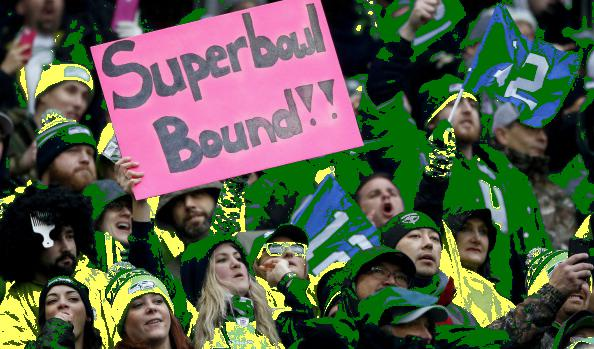
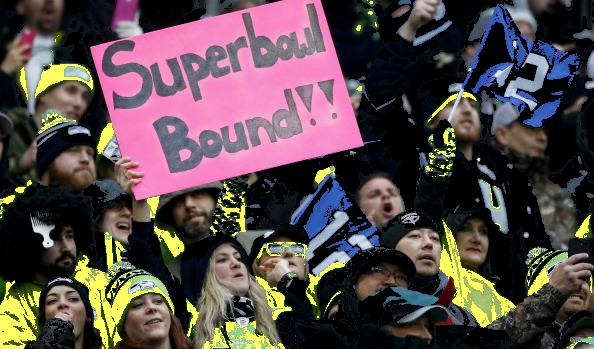
last prep for class, includes lab_Wade

diff --git a/templates/lab_Wade/index.html b/templates/lab_Wade/index.html
@@ -1,0 +1,28 @@
+
+{% extends "base.html" %}
+{% block content %}
+
+<div class="container">
+    
+    <script src="https://code.jquery.com/jquery-2.1.3.js"></script>
+    <script src="/static/underscore.js"></script>
+    <script src="/static/lab_Wade/vis.js"></script>
+    <script>
+        main();
+    </script>
+</div>
+
+      <div class="jumbotron">
+        <div class="container">
+          <h1>Lab1: Wade's Solution</h1>
+          <p>The images below represent the "before" and "after" views of the images we are modifying for our first exercise.</p>
+        </div>
+       </div>
+
+       <div class="container">
+    <div class="container" id="imageData"></div>
+         <!-- Example row of columns -->
+         <hr>
+         </div>
+
+{% endblock %}

diff --git a/static/lab_Wade/vis.js b/static/lab_Wade/vis.js
@@ -1,12 +1,12 @@
 
 function main() {
-    $.getJSON("/static/demo_NFL/data.json",
+    $.getJSON("/static/lab_Wade/data.json",
         function (jsonData) {
             var s = "";
             for (var i = 0; i < jsonData.length; i++) {
                 var imageData = jsonData[i];
                 s += '<div class="row">';
-                s += '  <div class="col-sm-6">';
+                s += '  <div class="col-md-6">';
                 s += '    <img src="' + imageData.orig + '" class="img-responsive"/>';
                 s += '  </div>';
                 s += '  <div class="col-md-6">';

diff --git a/templates/base.html b/templates/base.html
@@ -46,6 +46,7 @@
           <a href="#" class="dropdown-toggle" data-toggle="dropdown" role="button" aria-expanded="false">Labs<span class="caret"></span></a>
           <ul class="dropdown-menu" role="menu">
               <li><a href="/lab/ImageSingle">Image Single</a></li>
+              <li><a href="/lab/Wade">Wade</a></li>
           </ul>
         </li>
         <li class="dropdown">

diff --git a/py/lab_Wade/compute.py b/py/lab_Wade/compute.py
@@ -1,0 +1,166 @@
+
+#grab the python imaging library
+from PIL import Image, ImageFilter
+import json
+
+#http://stackoverflow.com/questions/24152553/hsv-to-rgb-and-back-without-floating-point-math-in-python
+def RGB_2_HSV(RGB):
+    ''' Converts an integer RGB tuple (value range from 0 to 255) to an HSV tuple '''
+
+    # Unpack the tuple for readability
+    R, G, B = RGB
+
+    # Compute the H value by finding the maximum of the RGB values
+    RGB_Max = max(RGB)
+    RGB_Min = min(RGB)
+
+    # Compute the value
+    V = RGB_Max;
+    if V == 0:
+        H = S = 0
+        return (H,S,V)
+
+
+    # Compute the saturation value
+    S = 255 * (RGB_Max - RGB_Min) // V
+
+    if S == 0:
+        H = 0
+        return (H, S, V)
+
+    # Compute the Hue
+    if RGB_Max == R:
+        H = 0 + 43*(G - B)//(RGB_Max - RGB_Min)
+    elif RGB_Max == G:
+        H = 85 + 43*(B - R)//(RGB_Max - RGB_Min)
+    else: # RGB_MAX == B
+        H = 171 + 43*(R - G)//(RGB_Max - RGB_Min)
+
+    return (H, S, V)
+
+#http://stackoverflow.com/questions/24152553/hsv-to-rgb-and-back-without-floating-point-math-in-python
+def HSV_2_RGB(HSV):
+    ''' Converts an integer HSV tuple (value range from 0 to 255) to an RGB tuple '''
+
+    # Unpack the HSV tuple for readability
+    H, S, V = HSV
+
+    # Check if the color is Grayscale
+    if S == 0:
+        R = V
+        G = V
+        B = V
+        return (R, G, B)
+
+    # Make hue 0-5
+    region = H // 43;
+
+    # Find remainder part, make it from 0-255
+    remainder = (H - (region * 43)) * 6; 
+
+    # Calculate temp vars, doing integer multiplication
+    P = (V * (255 - S)) >> 8;
+    Q = (V * (255 - ((S * remainder) >> 8))) >> 8;
+    T = (V * (255 - ((S * (255 - remainder)) >> 8))) >> 8;
+
+
+    # Assign temp vars based on color cone region
+    if region == 0:
+        R = V
+        G = T
+        B = P
+
+    elif region == 1:
+        R = Q; 
+        G = V; 
+        B = P;
+
+    elif region == 2:
+        R = P; 
+        G = V; 
+        B = T;
+
+    elif region == 3:
+        R = P; 
+        G = Q; 
+        B = V;
+
+    elif region == 4:
+        R = T; 
+        G = P; 
+        B = V;
+
+    else: 
+        R = V; 
+        G = P; 
+        B = Q;
+
+
+    return (R, G, B)
+
+
+def do_compute():  #required for web app
+
+    #import os
+    #set up file names to use for I/O
+
+    orig_name = "static/lab_Wade/packers.jpg"
+    new_name = "static/lab_Wade/packersNEW.jpg"
+
+    # bring data into memory
+    orig = Image.open(orig_name)
+    pixels = orig.load()
+    width,height = orig.size
+
+    # make changes to data, creating new image
+    for i in range(200):
+        pixels[i, i] = (255,0,0)
+
+    for x in range(width):
+        for y in range(height):
+        	r, g, b = pixels[x, y]
+        	
+        	h, s, v = RGB_2_HSV(pixels[x, y])
+        	
+
+        	# Orange: h = 26  / 360   ==>  18 / 255
+        	# Blue:   h = 211 / 360   ==> 150 / 255
+        	
+        	#  <---- 18 ----- 84 ----- 150 ----- 212 ----->
+        	#      orange     |        blue       |     orange
+        	        	
+        	if h >= 84 and h <= 212:
+        		h = 150
+        	else:
+        		h = 18
+        	
+        	# Result 2:
+        	# - Change sat. values for more color
+        	#if s < 128:
+        	#	s = s + 128
+        	#else:
+        	#	s = 255
+        	
+        	# Result 3:
+        	# - Change value for HDR-like rendeirng:
+        	#if v < 128:
+        	#	#v = (v / 128) * 100
+        	#	v = 0
+        	#else:
+        	#	v = int(((v - 128) / float(128)) * 200) + 55
+        	       		
+        	r, g, b = HSV_2_RGB( (h, s, v) )
+        	
+        	        		
+        	pixels[x, y] = (r,g,b)
+            
+            
+    # write data to file
+    orig.save(new_name)
+
+    # build list of dictionary(s) containing orig and new
+    outData = [{'orig': '/'+ orig_name, 'new': '/'+ new_name }]
+
+    with open('static/lab_Wade/data.json','w') as outfile:
+        json.dump(outData, outfile, indent=4, ensure_ascii=False)
+

diff --git a/py/demo_NFL/compute.py b/py/demo_NFL/compute.py
@@ -11,6 +11,12 @@ def isNavy(p):
 def isBrightGreen(p):
     return (pixelDist(p,(50,200,50)) < 12000)
 
+def makeGold((r,g,b)):
+    return (255,255,100)
+
+def makeGreen((r,g,b)):
+    return (0,120,0)
+
 def packerfy(im):
     pack = im.copy()
     w,h = pack.size
@@ -19,9 +25,9 @@ def packerfy(im):
     for x in range(w):
         for y in range(h):
             if isNavy(pixels[x,y]):
-                pixels[x,y] = (0,110,0) #green
+                pixels[x,y] = makeGreen(pixels[x,y])
             elif isBrightGreen(pixels[x,y]):
-                pixels[x,y] = (255,255,100) #yellow
+                pixels[x,y] = makeGold(pixels[x,y])
 
     return pack
 
@@ -29,7 +35,7 @@ def do_compute():  #required for web app
 
     #set up file names to use for I/O
     orig_name = "static/demo_NFL/ssfans.jpg"
-    new_name = "static/demo_NFL/packerfy.jpg"
+    new_name = "static/demo_NFL/packerfy2.jpg"
 
     # bring data into memory
     orig = Image.open(orig_name)
@@ -40,7 +46,7 @@ def do_compute():  #required for web app
     # build list of dictionary(s) containing orig and new
     outData = [{'orig': '/'+ orig_name, 'new': '/'+ new_name }]
 
-    with open('static/demo_Welcome/data.json','w') as outfile:
+    with open('static/demo_NFL/data.json','w') as outfile:
         json.dump(outData, outfile, indent=4, ensure_ascii=False)
 
 

diff --git a/py/demo_Welcome/compute.py b/py/demo_Welcome/compute.py
@@ -6,8 +6,8 @@ import json
 def do_compute():  #required for web app
 
     #set up file names to use for I/O
-    orig_name = "../../static/demo_Welcome/packers.jpg"
-    new_name = "../../static/demo_Welcome/packersNEW.jpg"
+    orig_name = "static/demo_Welcome/packers.jpg"
+    new_name = "static/demo_Welcome/packersNEW.jpg"
 
     # bring data into memory
     orig = Image.open(orig_name)
@@ -25,9 +25,9 @@ def do_compute():  #required for web app
     orig.save(new_name)
 
     # build list of dictionary(s) containing orig and new
-    #outData = [{'orig': '/'+ orig_name, 'new': '/'+ new_name }]
+    outData = [{'orig': '/'+ orig_name, 'new': '/'+ new_name }]
 
-    #with open('static/demo_Welcome/data.json','w') as outfile:
-        #json.dump(outData, outfile, indent=4, ensure_ascii=False)
+    with open('static/demo_Welcome/data.json','w') as outfile:
+        json.dump(outData, outfile, indent=4, ensure_ascii=False)
 
 do_compute()

diff --git a/app.py b/app.py
@@ -5,6 +5,7 @@ from utilities import load_src
 
 # create the application object
 app = Flask(__name__)
+app.config['SEND_FILE_MAX_AGE_DEFAULT'] = 0
 
 # use decorators to link the function to a url
 @app.route('/')
